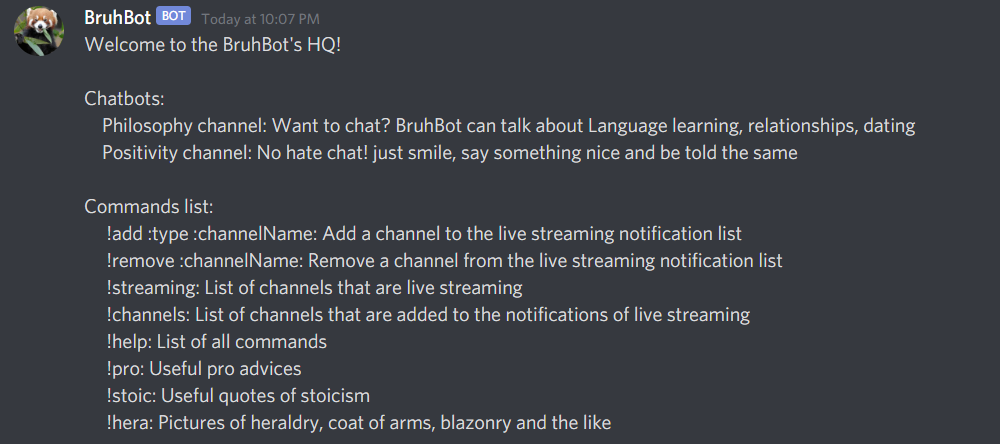
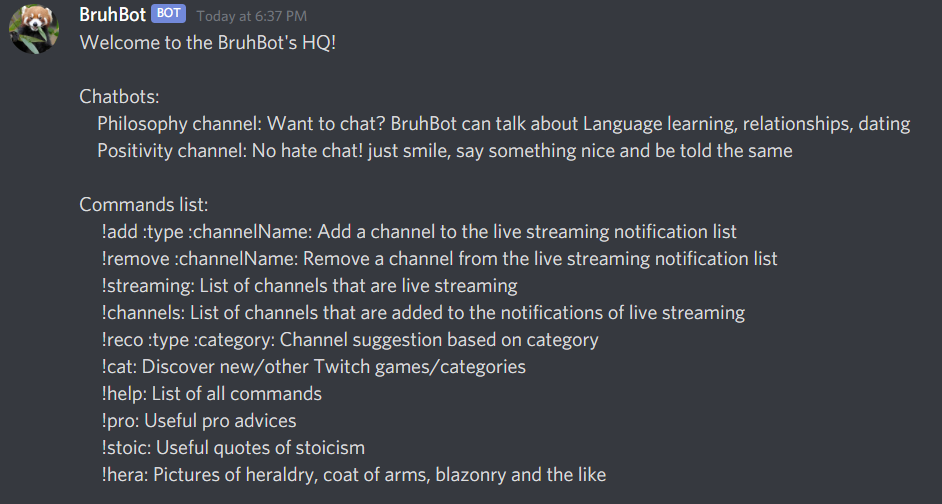
Added: Twitch channel and category recommendation

Changed region(s): [[0.0616, 0.1757, 0.9851, 0.8491], [0.0, 0.0, 0.3694, 0.1464], [0.0924, 0.8784, 0.6465, 0.9662]]

diff --git a/bot/src/commands/channel.ts b/bot/src/commands/channel.ts
@@ -1,16 +1,17 @@
 import { CommandMessage, Command, Description } from '@typeit/discord'
 import { Channel, Youtuber } from '../models'
-import { TwitchArgs } from '../types'
-import { isDevPubUrlWorking, streamersen, streaming, twitchChannelWebhook } from '../utils'
+import { ChannelArgs } from '../types'
+import { isDevPubUrlWorking, streamersen, streaming, twitchChannelRecommendation, twitchChannelWebhook } from '../utils'
 import * as TwitchService from '../services/twitch-service'
 import { EXPIRATION_IN_SECONDS, IN_PROD } from '../config'
 import moment from 'moment'
 import * as YoutubeService from '../services/youtube-service'
+import { MessageEmbed } from 'discord.js'
 
 export abstract class TwitchDiscordCommands {
     @Command("add :type :channelName")
     @Description("Add a channel to the live streaming notification list")
-    async webhook(command: CommandMessage<TwitchArgs>) {
+    async webhook(command: CommandMessage<ChannelArgs>) {
         command.channel.startTyping()
 
         const { type } = command.args
@@ -194,7 +195,7 @@ export abstract class TwitchDiscordCommands {
 
     @Command("remove :channelName")
     @Description("Remove a channel from the live streaming notification list")
-    async remove(command: CommandMessage<TwitchArgs>) {
+    async remove(command: CommandMessage<ChannelArgs>) {
         command.channel.startTyping()
 
         //The default Discord.ts method of destructuring considers whitespaces to differentiate elements, YouTube channels' name are not necessarily without wihtespaces
@@ -295,7 +296,15 @@ export abstract class TwitchDiscordCommands {
             //console.log(streamings)
 
             if (streamings.length > 0) {
-                command.channel.send(`${t} ${c} ${a} live streaming:\n${streamings}`)
+                command.channel.send(`${t} ${c} ${a} live streaming:`)
+
+                streamings.forEach(channel => {
+                    const channels = new MessageEmbed()
+                    .setColor('#0099ff')
+                    .addField(`${channel.channelName}'s live streaming`, `Here's a link: ${channel.channelUrl}` )
+                    .setThumbnail(channel.thumbnail)
+                    command.channel.send(channels)
+                })
 
                 command.channel.stopTyping()
             } else {
@@ -335,6 +344,73 @@ export abstract class TwitchDiscordCommands {
         //Found no channel saved in the database
         else {
             command.channel.send('No channel\'s added to the bot')
+
+            command.channel.stopTyping()
+        }
+    }
+
+    @Command("reco :type :category")
+    @Description("Channel suggestion based on category")
+    async recommendation(command: CommandMessage<ChannelArgs>) {
+        command.channel.startTyping()
+
+        const { type } = command.args
+
+        //The default Discord.ts method of destructuring considers whitespaces to differentiate elements, YouTube channels' name are not necessarily without wihtespaces
+        const game = command.commandContent.substr(7)
+
+        if (type == 't') {
+            const user = await twitchChannelRecommendation(game)
+
+            if (user !== undefined) {
+                const { name, image, description } = user
+
+                const channel = new MessageEmbed()
+                .setColor('#0099ff')
+                .setTitle(name)
+                .setURL(`https://www.twitch.tv/${name.toLowerCase()}`)
+                .setThumbnail(image)
+                .setDescription(description)
+                .addField('Add this channel', `"!add t ${name}"` )
+
+                command.channel.send(channel)
+
+                command.channel.stopTyping()
+            } else {
+                //Either there's no channel from the specified game or there's no game as specified by the user
+                command.channel.send(`Couldn't find any Twitch channel from ${game}`)
+
+                command.channel.stopTyping()
+            }
+        } else if (type == 'y') {
+            command.channel.send(`YouTube channel recommendation's not availlable`)
+
+            command.channel.stopTyping()
+        } else {
+            command.channel.send(`Invalid type: ${type}, specify a valid type of either 't' or 'y'`)
+
+            command.channel.stopTyping()
+        }
+    }
+
+    @Command("cat")
+    @Description("Discover new/other Twitch games/categories")
+    async category(command: CommandMessage) {
+        command.channel.startTyping()
+
+        const games = await TwitchService.games()
+
+        if (games.data.data.length > 0) {
+            const { name, box_art_url } =  games.data.data[Math.floor(Math.random() * games.data.data.length)]
+            
+            const game = new MessageEmbed()
+            .setColor('#0099ff')
+            .setTitle(name)
+            .setURL(`https://www.twitch.tv/directory/game/${encodeURIComponent(name)}`)
+            .setThumbnail(box_art_url.replace('{width}', '400').replace('{height}', '600'))
+            .addField('Channel recommendation', `"!reco t ${name}"` )
+
+            command.channel.send(game)
 
             command.channel.stopTyping()
         }

diff --git a/bot/src/utils/channel-utils.ts b/bot/src/utils/channel-utils.ts
@@ -16,7 +16,7 @@ dotenv.config()
  * @param streamers.channelName Twitch or YouTube channel name
  * @param streamers.channelId Twitch or YouTube channel Id
  * @param streamers.type Accept t for Twitch and y for YouTube
- * @returns List of channels that are live streaming
+ * @returns Array of objects of channels that are live streaming
  */
 export const streaming = async (streamers: { channelName: string, channelId: string, type: string }[]) => {
     let twitchers: string[] = []
@@ -34,27 +34,27 @@ export const streaming = async (streamers: { channelName: string, channelId: str
 
     const { data } =  channels
 
-    let youtubersStreaming: string[] = []
+    let youtubersStreaming: { channelName: string, channelUrl: string, thumbnail: string }[] = []
 
     await Promise.allSettled(youtubers.map(async youtuber => {
         const data = await YoutubeServices.getLiveStreaming(youtuber)
 
         if (data.length > 0) {
             data.forEach(channel => {
-                youtubersStreaming.push(`@everyone${channel.channelTitle} is live streaming! Here's a link: https://www.youtube.com/watch?v=${channel.videoId}`)
+                youtubersStreaming.push({ channelName: channel.channelTitle, channelUrl: `https://www.youtube.com/watch?v=${channel.videoId}`, thumbnail: channel.thumbnail })
             })
         }
     }))
 
-    let twitchersStreaming: string[] = []
+    let twitchersStreaming: { channelName: string, channelUrl: string, thumbnail: string }[] = []
 
     for (let i = 0; i < data.length; i++) {
-        twitchersStreaming.push(`@everyone ${data[i].user_name} is live streaming! Here's a link: https://www.twitch.tv/${data[i].user_name.toLowerCase()}`)
+        twitchersStreaming.push({ channelName: data[i].user_name, channelUrl: `https://www.twitch.tv/${data[i].user_name.toLowerCase()}`, thumbnail: data[i].thumbnail_url.replace('{width}', '480').replace('{height}', '360')})
     }
 
-    let usersStreaming: string[] = twitchersStreaming.concat(youtubersStreaming)
+    let usersStreaming: { channelName: string, channelUrl: string, thumbnail: string }[] = twitchersStreaming.concat(youtubersStreaming)
 
-    return usersStreaming.join('\n')
+    return usersStreaming
 }
 
 /**
@@ -491,4 +491,53 @@ const youtuberLiveStreamingWebhook = async (channelId: string) => {
     }
 
     return youtubersStreaming
+}
+
+/**
+ * Recommends a user from a Twitch game/category
+ * @param game Twitch game/category's name
+ * @returns Object of channel
+ */
+export const twitchChannelRecommendation = async(game: string) => {
+    let channel: { name: string, image: string, description: string } | undefined
+
+    const resG: any = await TwitchService.game(game)
+
+    const games = resG.data
+
+    if (games.length > 0) {
+        const id = games[0].id
+
+        console.log(id)
+
+        const resC: any = await TwitchService.channelByGame(id)
+
+        const channels = resC.data
+
+        if (channels.length > 0) {
+            const { user_name, user_id } = channels[Math.floor(Math.random() * channels.length)]
+
+            console.log(user_name)
+
+            const resU: any = await TwitchService.user(user_id)
+
+            console.log(resU)
+
+            const user = resU.data
+
+            if (user.length > 0) {
+                console.log(user)
+
+                const { profile_image_url, description } = user[0]
+
+                channel = {
+                    name: user_name,
+                    image: profile_image_url,
+                    description: description
+                }
+            }
+        }
+    }
+
+    return channel
 }

diff --git a/bot/src/services/twitch-service.ts b/bot/src/services/twitch-service.ts
@@ -5,7 +5,7 @@ import { EXPIRATION_IN_SECONDS } from '../config'
 /**
  * Finds a Twitch channel
  * @param channelName Twitch channel's name
- * @returns Array of channel's data
+ * @returns Object of channel's data
  */
 export const getChannel = async(channelName: string) => {
     const { data } = await TwitchClient.get(`/search/channels?query=${channelName}`);
@@ -15,7 +15,7 @@ export const getChannel = async(channelName: string) => {
 /**
  * Finds Twitch channels that are live streaming
  * @param channelNames List of Twitch channels' names
- * @returns List of Twitch channels that are live streaming
+ * @returns Arrays of objects of Twitch channels that are live streaming
  */
 export const getLiveStreaming = async(channelNames: string[]) => {
     const { data } = await TwitchClient.get(`/streams?user_login=${channelNames.join('&user_login=')}`);
@@ -58,7 +58,7 @@ export const subscribeWebhookChannel = async(channelId: string) => {
 /**
  * Unsubscribe from Twitch webhook of topic streams of a channel with its id
  * @param channelId Twitch channel's id
- * @returns Webhook subscription's reponse status
+ * @returns Webhook subscription's response status
  */
 export const unsubscribeWebhookChannel = async(channelId: string) => {
     const url = await callbackHubUrl()
@@ -90,8 +90,48 @@ export const unsubscribeWebhookChannel = async(channelId: string) => {
 
 /**
  * List of Twich webhook subscriptions
+ * @returns List of webhooks subscriptions
  */
 export const subscriptions = async() => {
     const data = await TwitchClient.get('/webhooks/subscriptions');
+    return data;
+}
+
+/**
+ * Finds a Twitch game/category
+ * @param gameName Twitch's game/category name
+ * @returns Array of games that match the query
+ */
+export const game = async(gameName: string) => {
+    const { data } = await TwitchClient.get(`/games?name=${encodeURIComponent(gameName)}`);
+    return data;
+}
+
+/**
+ * Finds channels under a game/category
+ * @param gameId Twitch game/category's id
+ * @returns Arrays of objects of channels
+ */
+export const channelByGame = async(gameId: string) => {
+    const { data } = await TwitchClient.get(`/streams?game_id=${gameId}`);
+    return data;
+}
+
+/**
+ * Finds a Twitch user
+ * @param userId Twitch channel's user id
+ * @returns Arrays of objects of users
+ */
+export const user = async(userId: string) => {
+    const { data } = await TwitchClient.get(`/users?id=${userId}`);
+    return data;
+}
+
+/**
+ * List of top Twitch games/categories
+ * @returns Arrays of objects of games/categories
+ */
+export const games = async() => {
+    const { data } = await TwitchClient.get('/games/top?limit=100');
     return data;
 }

diff --git a/bot/src/services/youtube-service.ts b/bot/src/services/youtube-service.ts
@@ -102,7 +102,7 @@ export const getChannel = async(channelName: string) => {
  * @returns Array of live streaming videos of a channel
  */
 export const getLiveStreaming = async(channelId: string) => {
-    let data: { channelTitle: string, videoId: string, publishedAt: string }[] = []
+    let data: { channelTitle: string, videoId: string, publishedAt: string, thumbnail: string }[] = []
 
     await youtube.search.list({
         part: [
@@ -123,7 +123,7 @@ export const getLiveStreaming = async(channelId: string) => {
             //console.log(items)
 
             items!.forEach(item => {
-                data.push({ channelTitle: item.snippet!.channelTitle!, videoId: item.id!.videoId!, publishedAt: item!.snippet!.publishedAt! })
+                data.push({ channelTitle: item.snippet!.channelTitle!, videoId: item.id!.videoId!, publishedAt: item!.snippet!.publishedAt!, thumbnail: item.snippet!.thumbnails!.high!.url! || item.snippet!.thumbnails!.medium!.url! || item.snippet!.thumbnails!.default!.url! })
             })
         }
     })

diff --git a/bot/src/types/twitch.ts b/bot/src/types/twitch.ts
@@ -1,4 +1,4 @@
-export interface TwitchArgs {
+export interface ChannelArgs {
     channelName: string
     type: "t" | "y"
 }

diff --git a/README.md b/README.md
@@ -1,6 +1,6 @@
 <h1 align="center">Discord Bot</h1>
 
-Discord bot which performs auto moderation and notify about Twitch and YouTube channels that are live streaming. Bot can do a basic conversation. By using [NLP.js](https://github.com/axa-group/nlp.js), the bot can guess the language (currently English and French) and react to the user's message by a '👍' for positivity and '👎' for negativity. User can add/remove Twitch and YouTube channels to/from the notification list, also retrieve them and display those who are live streaming
+Discord bot which performs auto moderation and notify about Twitch and YouTube channels that are live streaming. Bot can do a basic conversation. By using [NLP.js](https://github.com/axa-group/nlp.js), the bot can guess the language (currently English and French) and react to the user's message by a '👍' for positivity and '👎' for negativity. Twitch and YouTube live streams notifications and Twitch channels suggestions
 
 ## Features and commands
 <img src="bot\assets\pictures\Bot.png">
